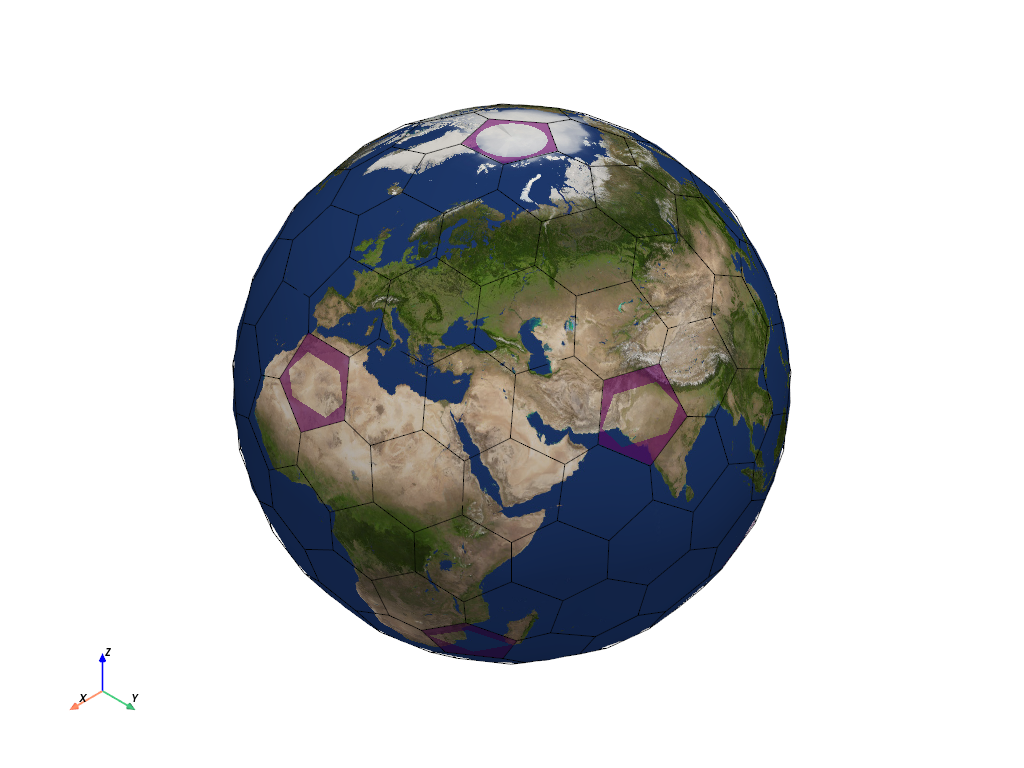
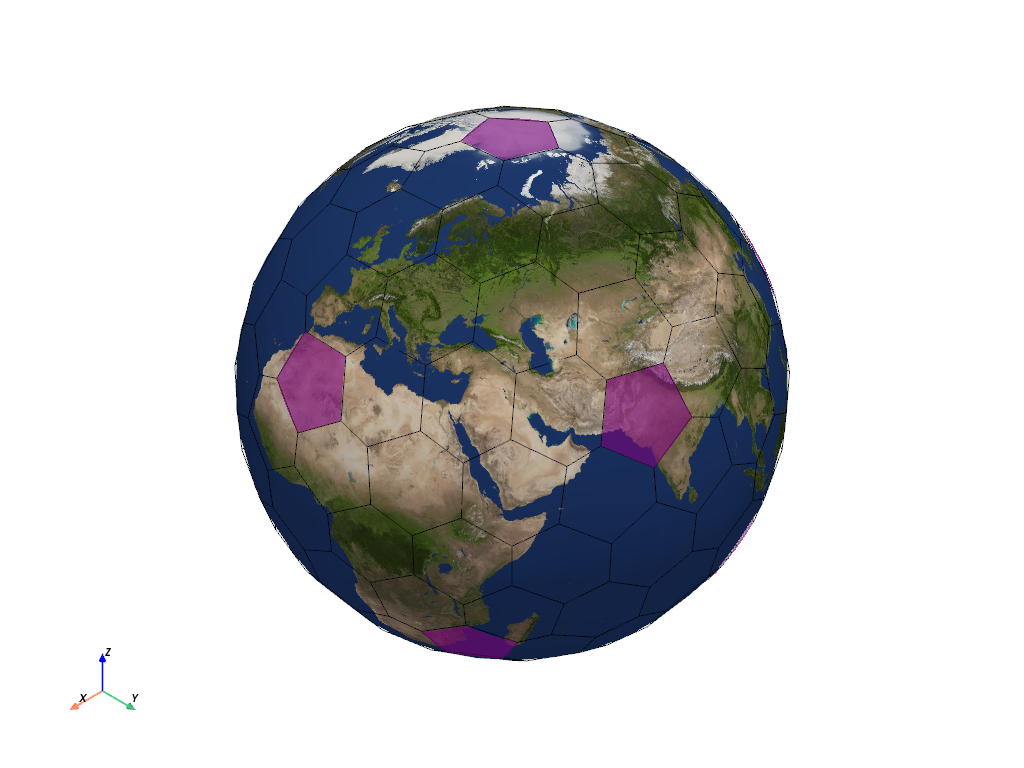
fix(viz): project pentagon overlays onto sphere
Subdivide highlighted pentagon surfaces and project their vertices above the spherical grid so the Earth texture cannot occlude their centers. Disable overlay lighting and regenerate the blog image without the spurious hexagonal and circular interior artifacts.\n\nVerification: uv run python -m pytest tests/test_visualization.py -q (10 passed, 1 skipped)

diff --git a/src/ionosphere_fdtd/visualization.py b/src/ionosphere_fdtd/visualization.py
@@ -359,11 +359,20 @@ def plot_mesh_3d(
                 line_width=1.0,
                 name="geodesic-grid",
             )
-            pentagons = dataset.extract_cells(values == 5.0)
+            pentagons = (
+                dataset.extract_cells(values == 5.0)
+                .extract_surface(algorithm="dataset_surface")
+                .triangulate()
+                .subdivide(2)
+            )
+            radii = np.linalg.norm(pentagons.points, axis=1, keepdims=True)
+            surface_radius = float(np.linalg.norm(dataset.points[0]))
+            pentagons.points *= (1.0005 * surface_radius) / radii
             plotter.add_mesh(
                 pentagons,
                 color="purple",
                 opacity=0.55,
+                lighting=False,
                 name="pentagonal-cells",
             )
         else:
